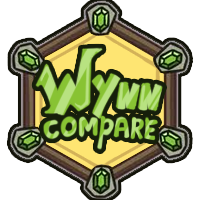
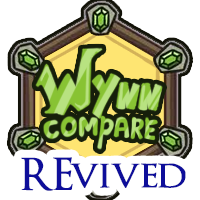
prepared 2.1 release
- new icon, now referenced in fabric.mod.json so it shows in Mod Menu
- added homepage/sources/issues contact links
- bumped version to 2.1, with the Minecraft version in the jar name
- updated README for release downloads, Wynntils note and known issues

Changed region(s): [[0.06, 0.72, 0.93, 0.99]]

diff --git a/README.md b/README.md
@@ -1,5 +1,7 @@
 # WynnCompare
 
+<img src="src/main/resources/assets/wynncompare/icon.png" alt="WynnCompare icon" width="128" align="right">
+
 A client-side Fabric mod for Minecraft 1.21.11 that adds equipment tooltip comparison for [Wynncraft](https://wynncraft.com/). Hold a key while hovering over an item to see your equipped gear or a stat-by-stat breakdown.
 
 ## Features
@@ -9,28 +11,23 @@ A client-side Fabric mod for Minecraft 1.21.11 that adds equipment tooltip compa
 - **Smart Positioning** — Tooltips stay within screen bounds
 - **Configurable Keybindings** — Rebind keys in Options > Controls under the **WynnCompare** category
 
-Supports all Wynncraft equipment: armor, weapons, and accessories.
+Supports all Wynncraft equipment: armor, weapons, and accessories (rings, bracelets, necklaces). Works in your inventory as well as banks and other containers.
 
 ## Requirements
 
-- Java 21+
 - Minecraft 1.21.11
 - Fabric Loader 0.16.0+
 - Fabric API
+- Java 21+
+- [Wynntils](https://modrinth.com/mod/wynntils) *(optional, recommended)*
 
-## Build
-
-```bash
-./gradlew build
-```
-
-The compiled JAR will be in `build/libs/`.
+WynnCompare identifies weapon and accessory types from Wynncraft's item model data, which changes whenever Wynncraft updates its resource pack. When Wynntils is installed, WynnCompare reads the up-to-date values from Wynntils' cache, so detection keeps working after Wynncraft updates. Without Wynntils it falls back to built-in values.
 
 ## Installation
 
 1. Install [Fabric Loader](https://fabricmc.net/use/) for Minecraft 1.21.11
 2. Download [Fabric API](https://modrinth.com/mod/fabric-api) and place it in your `mods/` folder
-3. Copy the WynnCompare JAR from `build/libs/` into your `mods/` folder
+3. Download the latest `wynncompare-*.jar` from [Releases](https://github.com/Supereiris/WynnCompare/releases) and place it in your `mods/` folder
 4. Launch Minecraft
 
 ## Usage
@@ -43,6 +40,26 @@ While in a Wynncraft inventory screen:
 | Hold **X** | Show stat comparison on the left |
 
 When both keys are held, the comparison tooltip takes priority.
+
+## Known Issues
+
+- Compare keys bound to mouse buttons are not detected; bind them to keyboard keys.
+
+## Building from Source
+
+```bash
+./gradlew build
+```
+
+The compiled JAR will be in `build/libs/`.
+
+For development with [Prism Launcher](https://prismlauncher.org/), `deploy.ps1` builds the mod and installs it into a Prism instance:
+
+```powershell
+.\deploy.ps1                      # build and install into the "Wynncraft" instance
+.\deploy.ps1 -Launch              # ...and launch it
+.\deploy.ps1 -Instance "MyPack"   # use a different instance
+```
 
 ## License
 
